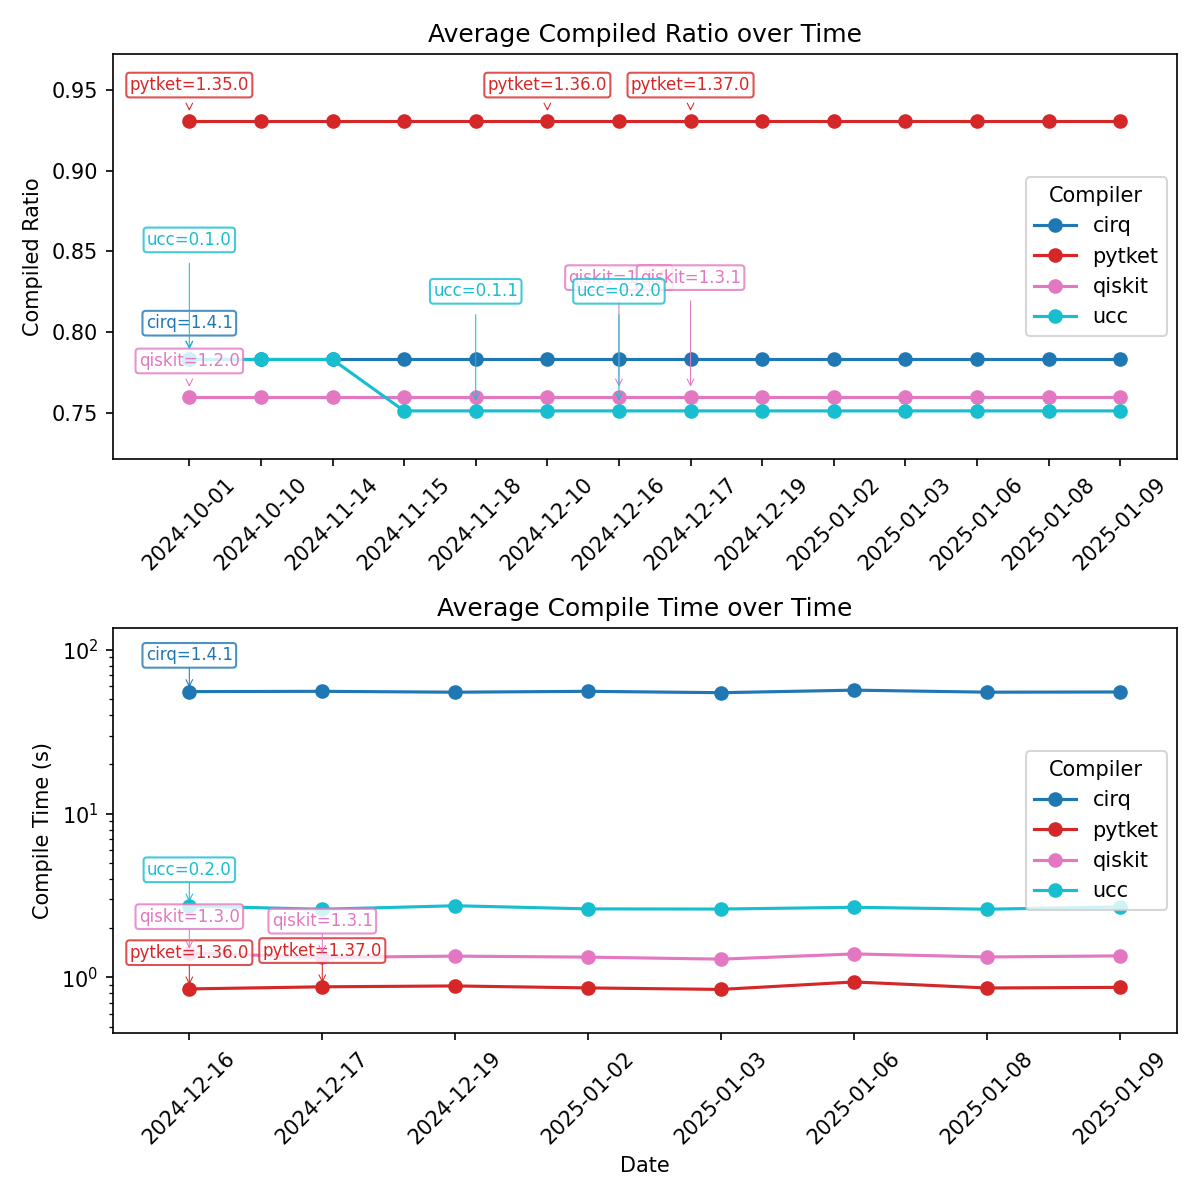
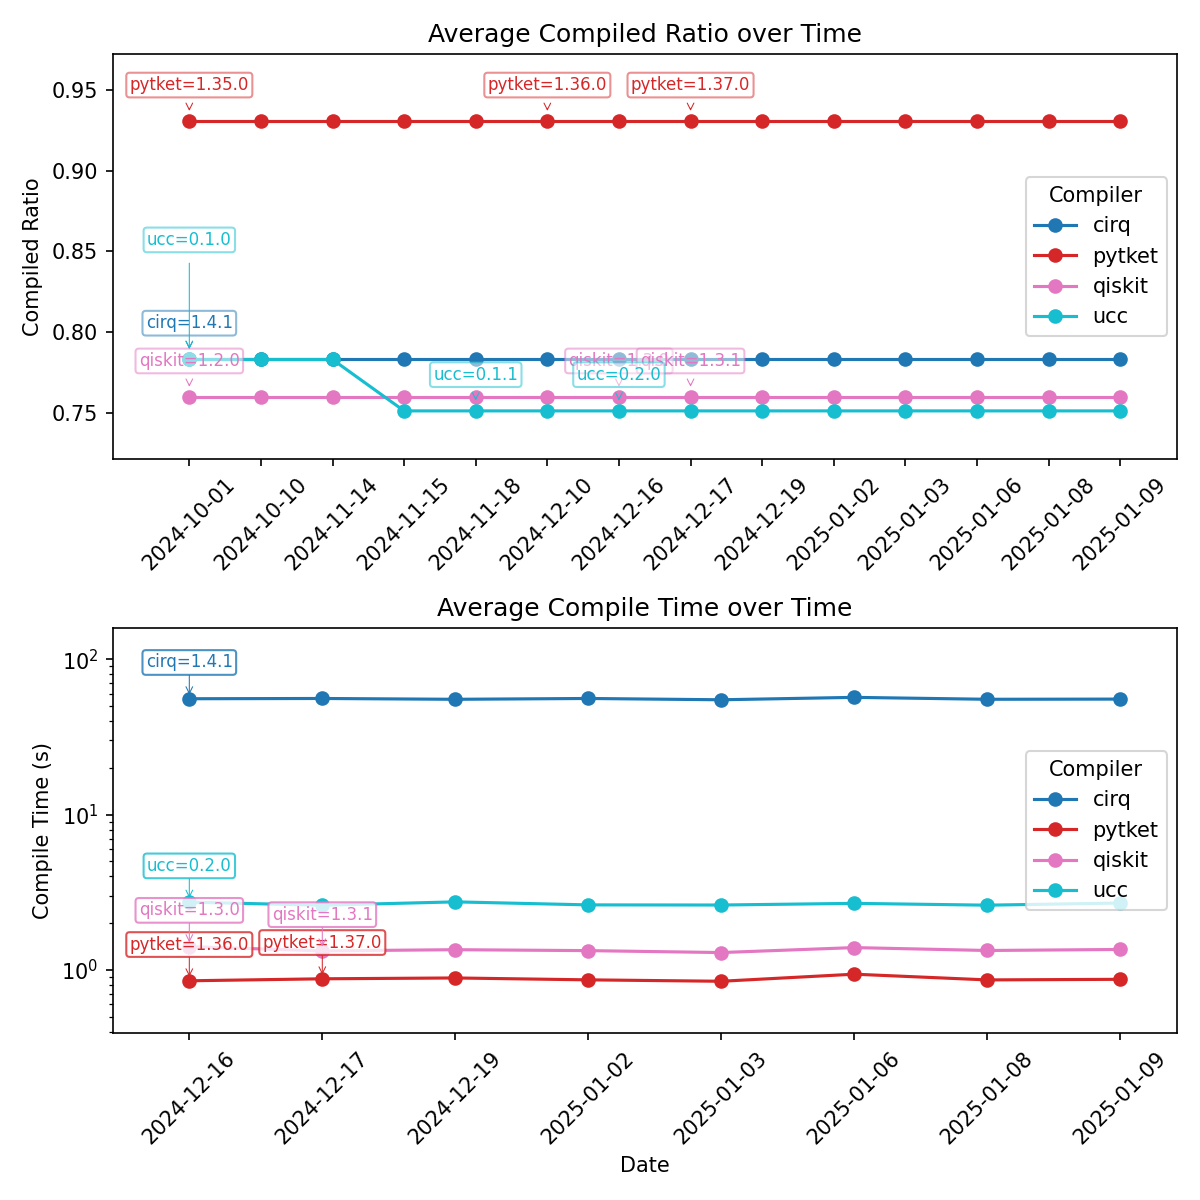
Closer, still overlapping slightly

diff --git a/benchmarks/scripts/common.py b/benchmarks/scripts/common.py
@@ -236,13 +236,13 @@ def annotate_and_adjust(ax, text, xy, color, previous_bboxes, offset=(0, 15), in
             boxstyle="round,pad=0.2",
             edgecolor=color,
             facecolor="white",
-            alpha=0.8
+            alpha=0.5
         )
     )
 
     # Get the bounding box of the annotation in data coordinates
     renderer = ax.figure.canvas.get_renderer()
-    bbox = annotation.get_window_extent(renderer).transformed(ax.transData.inverted())
+    bbox = annotation.get_tightbbox(renderer).transformed(ax.transData.inverted())
 
     attempts = 0
     # Adjust position to avoid overlap
@@ -263,8 +263,6 @@ def annotate_and_adjust(ax, text, xy, color, previous_bboxes, offset=(0, 15), in
     # Needed to plot points in correct order
     ax.figure.canvas.flush_events()
 
-import matplotlib
-import numpy as np
 
 def adjust_axes_to_fit_labels(ax, x_scale=1.0, y_scale=1.0, x_log=False, y_log=False):
     """

diff --git a/benchmarks/scripts/plot_avg_benchmarks_over_time.py b/benchmarks/scripts/plot_avg_benchmarks_over_time.py
@@ -165,7 +165,7 @@ ax[1].set_ylabel("Compile Time (s)")
 ax[1].set_xlabel("Date")
 ax[1].set_yscale("log")
 ax[1].legend(title="Compiler", loc="center right")
-adjust_axes_to_fit_labels(ax[1], x_scale=1.01, y_scale=1.5, y_log=True)
+adjust_axes_to_fit_labels(ax[1], x_scale=1.01, y_scale=1.75, y_log=True)
 
 plt.xticks(rotation=45)
 plt.tight_layout()
